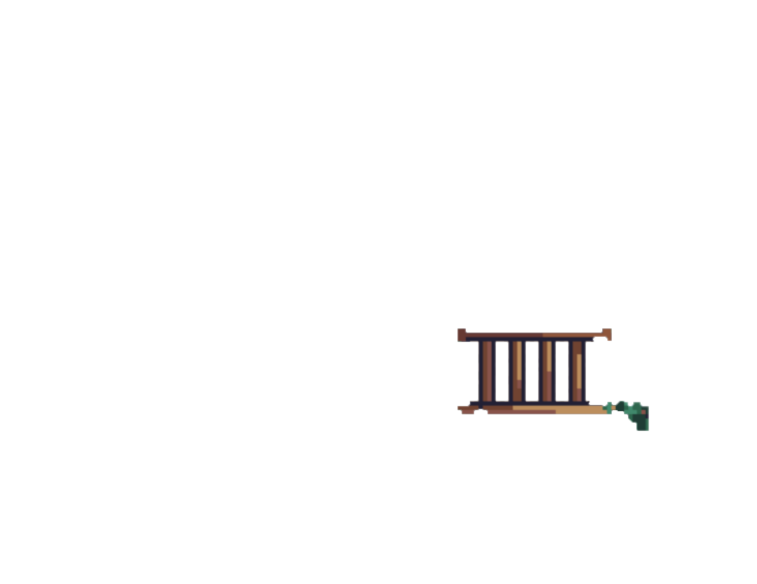
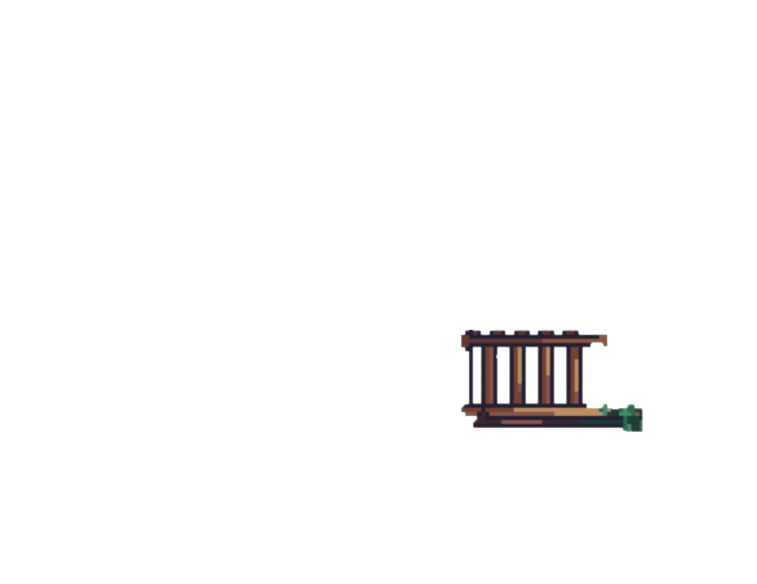
roll a dice

Changed region(s): [[0.5773, 0.5548, 0.8811, 0.7397]]

diff --git a/main.cpp b/main.cpp
@@ -31,7 +31,7 @@ int main(int argc, char *argv[])
     game->drawIcon();
 
     // Audio
-    Audio::playBGM("res/Audio/TidalWave.wav");
+    Audio::playBGM("res/Audio/Stage1.wav");
 
     // Player + Hud
     Player *player0 = new Player();
@@ -39,11 +39,10 @@ int main(int argc, char *argv[])
     Hud *hud0 = new Hud(game->getRenderer(), player0);
 
     // Block
-    Block *allBlock[4];
-    allBlock[0] = new Block(100, 200);
-    allBlock[1] = new Block(770, 340, 240, 64, false);
-    allBlock[2] = new Block(770, 480, 240, 64);
-    allBlock[3] = new Block(640, 64, 128000, 128);
+    Block *allBlock[3];
+    allBlock[0] = new Block(770, 340, 240, 64, false);
+    allBlock[1] = new Block(770, 480, 240, 64);
+    allBlock[2] = new Block(640, 64, 1280, 128);
 
     for (Block *block : allBlock)
     {
@@ -58,7 +57,7 @@ int main(int argc, char *argv[])
     // });
 
     // BG
-    Sprite *bg = new Sprite(2880, 1600, 1, "res/IdiotBackground.jpg");
+    Sprite *bg = new Sprite(756, 360, 1, "res/Background/Mountain.jpg");
     bg->setTexture(bg->loadTexture(game->getRenderer(), bg->getSpritePath()));
 
     // DECORATION
@@ -69,7 +68,7 @@ int main(int argc, char *argv[])
     staticBack[3] = new DecorationStatic(game->getRenderer(), "res/Grass.png", 640, 64, 1280, 128, false);
 
     DecorationDynamic *dynamicBack[3];
-    dynamicBack[0] = new DecorationDynamic(game->getRenderer(), "res/NakuSheet/NakuLeft.png", 870, 180, 32, 32, 30, 2, 4, false);
+    dynamicBack[0] = new DecorationDynamic(game->getRenderer(), "res/NakuSheet/NakuLeft.png", 870, 164, 32, 32, 30, 2, 4, false);
     dynamicBack[0]->setAlpha(200);
     dynamicBack[1] = new DecorationDynamic(game->getRenderer(), "res/Fire.png", 540, 240, 74, 154, 10, 8, 1, false);
     dynamicBack[2] = new DecorationDynamic(game->getRenderer(), "res/Sun.png", 1100, -70, 64, 64, 30, 2, 4, true);
@@ -84,6 +83,7 @@ int main(int argc, char *argv[])
     float time_max = 1200;
     bool pause;
 
+    SDL_Delay(100);
     while (!quit)
     {
         // time++;
@@ -118,11 +118,14 @@ int main(int argc, char *argv[])
         // std::cout << player0->getX() << " " << player0->getY() << "\n";
 
         // Update
+        SDL_SetRenderDrawColor(game->getRenderer(), 255, 255, 255, 255);
         SDL_RenderClear(game->getRenderer());
 
-        SDL_Rect bgRect = {-100, -500, 2880, 1600};
-        SDL_RenderCopy(game->getRenderer(), bg->getTexture(), NULL, &bgRect);
+        // Draw Background
+        SDL_Rect bgDestRect = {player0->getX() * 0.04 - 300, 0, game->getWIDTH() * 1.3, game->getHEIGHT() * 1.2};
+        SDL_RenderCopy(game->getRenderer(), bg->getTexture(), NULL, &bgDestRect);
 
+        // Draw Decoration (back)
         for (DecorationStatic *decor : staticBack) {
             decor->draw(game->getRenderer(), player0->getX(), player0->getY(), player0->getFocusX(), player0->getOffsetX(), player0->getFocusY(), player0->getOffsetY());
         }
@@ -130,17 +133,21 @@ int main(int argc, char *argv[])
             decor->draw(game->getRenderer(), player0->getX(), player0->getY(), player0->getFocusX(), player0->getOffsetX(), player0->getFocusY(), player0->getOffsetY());
         }
 
+        // Draw block
         // for (Block *block : allBlock)
         // {
         //     block->renderBlock(game->getRenderer(), player0->getX(), player0->getY(), player0->getFocusX(), player0->getOffsetX(), player0->getFocusY(), player0->getOffsetY());
         // }
         
+        // Update player
         player0->playerUpdate(game->getRenderer(), allBlock);
 
+        // Draw Decoration (front)
         for (DecorationStatic *decor : staticFront) {
             decor->draw(game->getRenderer(), player0->getX(), player0->getY(), player0->getFocusX(), player0->getOffsetX(), player0->getFocusY(), player0->getOffsetY());
         }
 
+        // Draw Hud
         hud0->draw(game->getRenderer());
 
         SDL_RenderPresent(game->getRenderer());

diff --git a/src/player.cpp b/src/player.cpp
@@ -176,6 +176,8 @@ int Player::getOffsetY()
 
 void Player::playerSprite(SDL_Renderer *renderer)
 {
+    // Camera focus or not
+    setFocus();
     if (getSprFrame() < getSprFrameMax())
         setSprFrame(getSprFrame() + 1);
     else
@@ -190,17 +192,16 @@ void Player::playerSprite(SDL_Renderer *renderer)
         else
             setSprIndex(0);
 
-    setFocus();
-
     int drawX = focus_x ? 640 : getHitX();
     int drawY = focus_y ? 360 : 720 - getHitY();
+
+    if (display_hitbox) {
+        SDL_Rect hitRect = {drawX - getHitWidth() / 2, drawY - getHitHeight() / 2, getHitWidth(), getHitHeight()};
+        SDL_RenderCopy(renderer, hitbox->getTexture(), NULL, &hitRect);
+    }
+
     SDL_Rect desRect = {drawX - getWidth() / 2, drawY - getWidth() / 2, getWidth(), getHeight()};
     SDL_Rect srcRect = {getSprIndex() * 32, act_index * 32, 32, 32};
-
-
-    SDL_Rect hitRect = {drawX - getHitWidth() / 2, drawY - getHitHeight() / 2, getHitWidth(), getHitHeight()};
-
-    SDL_RenderCopy(renderer, hitbox->getTexture(), NULL, &hitRect);
     SDL_RenderCopy(renderer, act_right ? PlayerRight->getTexture() : PlayerLeft->getTexture(), &srcRect, &desRect);
 }
 
@@ -209,7 +210,7 @@ void Player::playerInput()
     // Input handler
     const Uint8 *state = SDL_GetKeyboardState(NULL);
 
-    // ===============Working===============
+    // ===============Main input===============
 
     // Moving L/R
     if (state[SDL_SCANCODE_A] && !g_dash && !a_dash && !crawl)
@@ -299,6 +300,10 @@ void Player::playerInput()
         a_dash = true;
         vel_x = a_dash_vel * (vel_x > 0 ? 1 : -1);
     }
+
+    
+    // ===============EXPERIMENTATION input===============
+    display_hitbox = state[SDL_SCANCODE_H];
 }
 
 void Player::playerMovement()
@@ -427,7 +432,7 @@ void Player::playerTileCollision(Block *object[])
 {
     bool on_aleast_ground = false;
 
-    for (int i = 0; i < 4; i++)
+    for (int i = 0; i < 3; i++)
     {
         Block *obj = object[i];
         // int colli_x = abs(getX() - obj->getX());

diff --git a/src/audio.cpp b/src/audio.cpp
@@ -3,7 +3,7 @@
 void Audio::playBGM(const char *wavPath)
 {
     // 22050, 44100, or 48000
-    Mix_OpenAudio(22050, MIX_DEFAULT_FORMAT, 2, 1024);
+    Mix_OpenAudio(44100, MIX_DEFAULT_FORMAT, 2, 1024);
     Mix_Music *music = Mix_LoadMUS(wavPath);
     Mix_PlayMusic(music, 0);
 }

diff --git a/include/player.h b/include/player.h
@@ -81,7 +81,8 @@ private:
     Sprite *PlayerRight;
     Sprite *hitbox;
 
-    int alwaysUpdate = 300;
+    // ====== EXPERIMENTATION VALUES ======
+    bool display_hitbox = false;
 
 public:
     // Constructor
